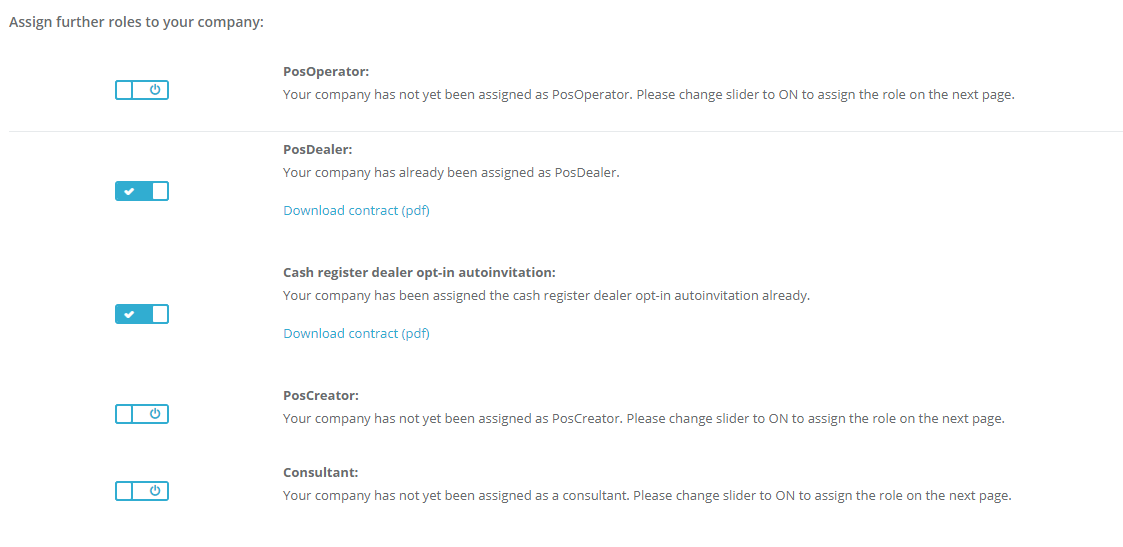
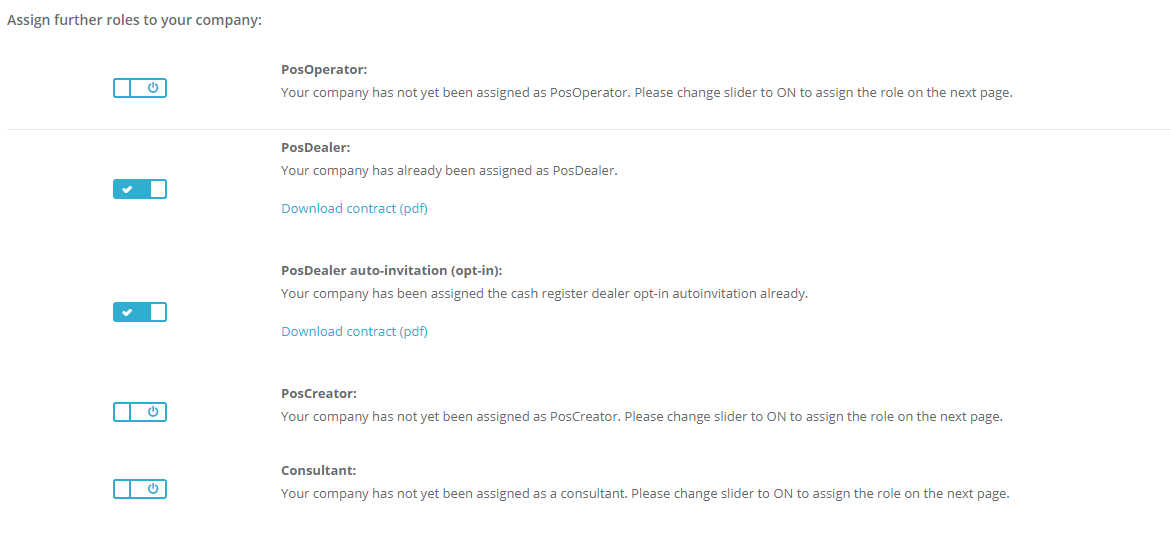
Some more typos

diff --git a/portal/portal-sprint-76.md b/portal/portal-sprint-76.md
@@ -1,6 +1,8 @@
 # fiskaltrust.Portal - Sprint 76
 _June 22, 2020_
 
+**Automatic POS operator onboarding & overhauled export experience**
+
 In the Sprint 76 update of the fiskaltrust.Portal, we are excited to announce that we have a completely new data export experience which not only should make selecting specific exports easier, but is also able to finish exports within a few minutes instead of several hours, even for very large queues.
 
 In addition, we've added an automatic onboarding flow to the German sandbox environment. PosDealers are now able to onboard PosOperators without further manual actions on their side.
@@ -50,7 +52,9 @@ In addition to displaying it in the portal, we now include the receipt range of 
 ### E-Commerce
 
 #### Separate template products by market
-In the past, we did not separate between template-based products for different markets. This led to the fact that we showed all of these products in the shop. We have made some changes to be able to separate these products between the markets, and now only show products that are really available for the given market are.
+In the past, we did not separate between template-based products for different markets. This led to the fact that we displayed all of these products in the shop (e.g. Austrian products were displayed in the German shop). 
+
+We have made some changes to be able to separate these products between the markets, and now only display products that are really available for the given market are.
 
 ### Middleware Configuration
 
@@ -67,41 +71,42 @@ When updating Middleware configurations via the _bulk update_ interface, an erro
 ### User Management
 
 #### Automatic onboarding of PosOperators (Preview, Germany only)
-We have been getting many questions on how to make the onboarding experience easier for PosDealers. Since most of the PosDealers are managing many customers with the ft-Portal it is sometimes hard to get everybody on board. In the past we already had the invitation process which created the accounts for the PosOperator and sent an invitation to the PosOperator that needed to be accepted. This often led to a lot of work and sometimes it made the onboarding experience very bad. 
+We have been getting many questions on how to make the onboarding experience easier for PosDealers. Since especially in our new markets, some PosDealers are managing many of customers via the fiskaltrust.Portal, getting everyone to register and sign the contract could be very time-consuming. 
 
-With the latest changes that we have rolled out to our Sandbox environment customers now can test the new, fully automated onboarding process. To enable this feature you have to activate the new `Cash register dealer opt-in autoinvitation` feature as seen in the screenshot bellow.
+The "original" invitation process created accounts for PosOperators and sent invitations to the given email addresses that needed to be accepted manually. Obviously, this onboarding experience does not scale, as we cannot expect our PosDealers to manually reach out to thousands of their customers and support them during the sign-up.
+
+With the latest changes rolled out to our German sandbox environment, customers now can test the new, fully automated onboarding process. To enable this feature, please activate the new `PosDealer auto-invitation (opt-in)` feature as shown in the screenshot below.
 
 ![role-optin-activation](images/sprint-76/role-optin-activation.png)<br><br>
 
-Because of the fact that this is a PosDealer-only feature you need to have the PosDealer role activated as well. The contract that is currently showing up is a placeholder contract and it will be replaced by an actual contract before going into production.
+Because of the fact that this is a PosDealer-only feature, you need to have the `PosDealer` role activated as well. The contract that is currently showing up is a placeholder and will be replaced by an actual contract the feature is rolled out to production.
 
-After that role has been activated you should see two new buttons in the PosOpeartors/Invitations view. 
+After that role has been activated, you should see two new buttons in the _PosOperators / Invitations_ view. 
 
-![autoinvitation-posoperators](images/sprint-76/autoinvite-posoperators.png)<br><br>
+![autoinvitation-posoperators](images/sprint-76/autoinvite-posoperators.png)
 
-Similar to the usual invitation feature you can either proceed for all pending invitations or just one by one. 
+Similar to the already available invitation feature, you can either proceed for all pending invitations or just one by one. 
 
-As soon as you have clicked one of the buttons the following steps are executed:
+As soon as you have clicked one of the buttons, the following steps are executed:
 
 1. Creation of PosOperator Contact / User
 1. Creation of PosOperator Account
-1. Creation of Connection between PosOperator and PosDealer Accounts
-1. Enable Full Permissions on PosOperator Account for PosDealer
-1. Generate Random Password for PosOperator
-1. Enable Connection between PosOperator and PosDealer Accounts
-1. Create PosOperator contract and sign with the PosDealer's Accountname
-1. Save created PosOperator-Contract to the accountstorage of the PosOperator so that the PosOperator can access it via the portal
-1. Save the opt-in-autoinvitation contract of the PosDealer to the accountstorage of the PosOperator (Prefix: posdealer-opt-in-autoinvitation_autoinvitation_{posDealerAccountId})
+1. Creation of connection between PosOperator and PosDealer accounts
+1. Enable _Full Permissions_ on PosOperator account for PosDealer
+1. Generate random password for PosOperator
+1. Enable connection between PosOperator and PosDealer accounts
+1. Create PosOperator contract and sign with the PosDealer's account name
+1. Store created PosOperator contract to the account storage of the PosOperator, so that the PosOperator can access it via the portal
+1. Save the opt-in auto-invitation contract of the PosDealer to the account storage of the PosOperator (Prefix: `posdealer-opt-in-autoinvitation_autoinvitation_{posDealerAccountId}`)
 1. Enable PosOperator role for PosOperator
-1. Send an Email to the PosOperator with the following documents:
+1. Send an email to the PosOperator with the following documents attached:
+    - PosOperator contract (signed by the PosDealer)
+    - PosDealer opt-in contract
+    - Additional files that can be added by the PosDealer during the invitation
 
-- PosOperator Contract (signed by the PosDealer)
-- PosDealer Opt-In Contract
-- Additional files that can be added by the PosDealer during the invitation
+After performing these steps the, PosOperator account is properly configured and can be used with the fiskaltrust services. If the PosOperators want to login, they will have to reset their password during the first login. To make this experience as easy as possible, the email that the PosOperator receives already contains a password reset link.
 
-After performing these steps the PosOperator Account is properly configured and can be used with the fiskaltrust Services. If the PosOperators want to login they will have to reset their password during the first login. To make this experience as easy as possible the email that the PosOperator gets contains a password reset link.
-
-_For now, this feature is only available in the sandbox._
+_For now, this feature is only available in the German sandbox._
 
 ## Next steps
 In the upcoming sprints, the development team will mostly focus on further improving the customer onboarding experience in the Portal.
